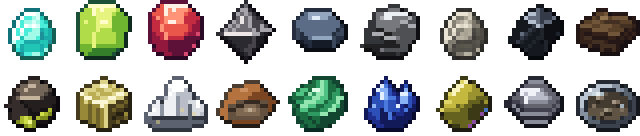
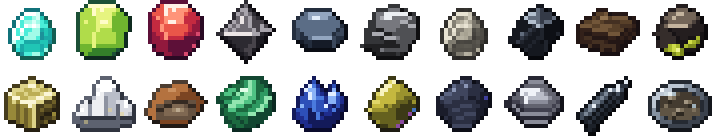
docs: describe porphyry copper deposits in the readme

diff --git a/README.md b/README.md
@@ -1,7 +1,7 @@
 <h1 align="center">RealisticOres</h1>
 
 <p align="center">
-  <img src=".github/assets/items.png" alt="Natural diamond, peridot, pyrope, chromite, ilmenite, graphite, bort, anthracite, lignite, raw uranium, pyrite, sal ammoniac, raw siderite, malachite, azurite, chalcopyrite, molybdenite and the iron pan" width="560">
+  <img src=".github/assets/items.png" alt="Natural diamond, peridot, pyrope, chromite, ilmenite, graphite, bort, anthracite, lignite, raw uranium, pyrite, sal ammoniac, raw siderite, malachite, azurite, chalcopyrite, chalcocite, molybdenite, tourmaline and the iron pan" width="600">
 </p>
 
 <p align="center">
@@ -24,8 +24,8 @@ Vanilla ores come as scattered blobs that tell you nothing. In RealisticOres an 
 
 - **[Kimberlite pipes](#kimberlite-pipes)**: carrot-shaped volcanic pipes with craters, five kimberlite facies and a peridotite rim. Diamond, bort, graphite and peridot, with rich, poor and barren pipes.
 - **[Coal basins](#coal-basins)**: layered basins of hard coal, lignite or anthracite, with sandstone and uranium roll fronts, pyritic black shale, clay ironstone and burning seams.
-- **[Porphyry copper](#porphyry-copper-in-progress)** (in progress): zoned copper rock from gossan cap to potassic core.
-- **[Prospecting](#prospecting)**: pan sediment for indicator minerals, follow their trail upstream, buy a map to the nearest field.
+- **[Porphyry copper](#porphyry-copper)**: groups of deposits on high ground, with a rusty gossan cap, a weathered and enriched top, alteration shells around a porphyry stock, breccia vents and dikes.
+- **[Prospecting](#prospecting)**: pan sediment for indicator minerals, follow their trail upstream, buy a map to the nearest deposit.
 - **[Crystal press](#crystal-press)**: press graphite into synthetic diamond, faster and richer with the right catalyst and a seed crystal.
 - **[Plays well with others](#compatibility)**: enabled ores suppress same-tagged ores of vanilla and other mods; every resource carries `c:` tags and a storage block; gems and ornamental stones are armor trim materials.
 
@@ -69,11 +69,27 @@ What else lies in a basin, and how to read it:
 
 Sandstone, black shale and seam fires are part of every basin, whether or not their ores are switched on.
 
-### Porphyry copper (in progress)
+### Porphyry copper
 
-<img src=".github/assets/porphyry.png" alt="Gossan with gold, bleached porphyry with malachite, azurite and chalcopyrite, propylite, phyllic rock with pyrite and chalcopyrite, potassic porphyry with chalcopyrite and molybdenite, porphyry, tourmaline breccia with chalcopyrite" width="720">
+<img src=".github/assets/porphyry.png" alt="Gossan, gold ore, bleached porphyry, malachite, azurite and chalcopyrite ore, phyllic rock, chalcocite, pyrite and chalcopyrite ore, propylite, potassic porphyry, chalcopyrite and molybdenite ore, porphyry, tourmaline breccia, chalcopyrite ore" width="720">
 
-Rocks, ores and minerals are in the game; the deposit that places them is not yet. From cap to core: a rusty gossan with gold, bleached porphyry with malachite, azurite and leached chalcopyrite, an outer halo of propylite, phyllic rock with pyrite and chalcopyrite, and the potassic core with chalcopyrite and molybdenite. Tourmaline breccia carries chalcopyrite too.
+Porphyry deposits form in groups on high ground, like a stretch of a porphyry belt. Each one is a stock of porphyry wrapped in shells of altered rock: potassic porphyry around a barren core, phyllic rock outside it and a wide halo of green propylite. Breccia vents of tourmaline breccia and steep porphyry dikes cut through the stock, and the whole body can lean.
+
+The top has been weathered. Rain leached the copper out of the upper rock and carried it down, so the profile reads from the surface:
+
+| Zone | Rock | Ores |
+| --- | --- | --- |
+| Gossan | rusty gossan | gold |
+| Leached cap | bleached porphyry | none |
+| Oxide zone | bleached porphyry | malachite, azurite, leached chalcopyrite at its base |
+| Cementation zone | phyllic rock | chalcocite, the richest copper ore |
+| Potassic shell | potassic porphyry | chalcopyrite, molybdenite |
+| Phyllic shell | phyllic rock | chalcopyrite, pyrite |
+| Breccia vents | tourmaline breccia | chalcopyrite |
+
+Erosion has cut each deposit to a different depth. Slightly eroded ones still hide the potassic dome under a thick cap, deeply eroded ones have lost most of their weathered top and expose the core. Patches of gossan and coarse dirt in the soil mark a cap below. Copper sits in a ring around the barren core: the weathered ores lie above that ring and thin out toward the rim, and molybdenite stays deep in the potassic shell.
+
+All copper ores count as copper for other mods (`c:ores/copper`) and smelt to copper ingots; gossan gold drops gold nuggets. None of them suppresses vanilla copper or gold.
 
 ## Prospecting
 
@@ -87,9 +103,17 @@ Kimberlite pipes shed **indicator minerals** that rivers and erosion carry away 
 
 The colour of the pyrope also hints at the grade of the pipe it came from.
 
+Porphyry copper deposits sit on high ground, and streams wash their grains down into the valleys:
+
+| Indicator | Travels about | Means |
+| --- | --- | --- |
+| Tourmaline | 500 blocks | a deposit is somewhere upstream |
+| Gold nugget | 250 blocks | getting closer |
+| Chalcopyrite | 80 blocks | the deposit is near |
+
 - **Iron pan.** Fill it with water and use it on sand, gravel or dirt. It washes the sediment, weighs the indicator grains it finds and keeps them. Efficiency washes faster, Fortune collects more grains, Silk Touch leaves the block in place for half the yield.
 - **Trail Sense.** An enchantment for the pan, found as a book in shipwreck and buried treasure. After a wash, a trail of ghostly flames leads from the panning spot toward the source of the grains.
-- **Kimberlite map.** Sold by cartographers, found in mineshafts and desert pyramids. Used, it turns into a map to a trail point of the nearest kimberlite field.
+- **Kimberlite map and porphyry map.** Sold by cartographers, found in mineshafts and desert pyramids. Used, each turns into a map to a trail point of the nearest kimberlite field or porphyry copper deposit.
 
 ## Crystal press
 
@@ -113,7 +137,7 @@ Configs live in `config/realisticores/` and reload while the game runs; changes 
 
 ## Commands
 
-`/locate realisticores <target>` finds the nearest deposit, like the vanilla locate command. Targets: `kimberlite_pipe`, `hard_coal`, `lignite`, `anthracite`. A deposit that is switched off is reported as not found.
+`/locate realisticores <target>` finds the nearest deposit, like the vanilla locate command. Targets: `kimberlite_pipe`, `hard_coal`, `lignite`, `anthracite`, `porphyry`. A deposit that is switched off is reported as not found.
 
 ## Compatibility
 
